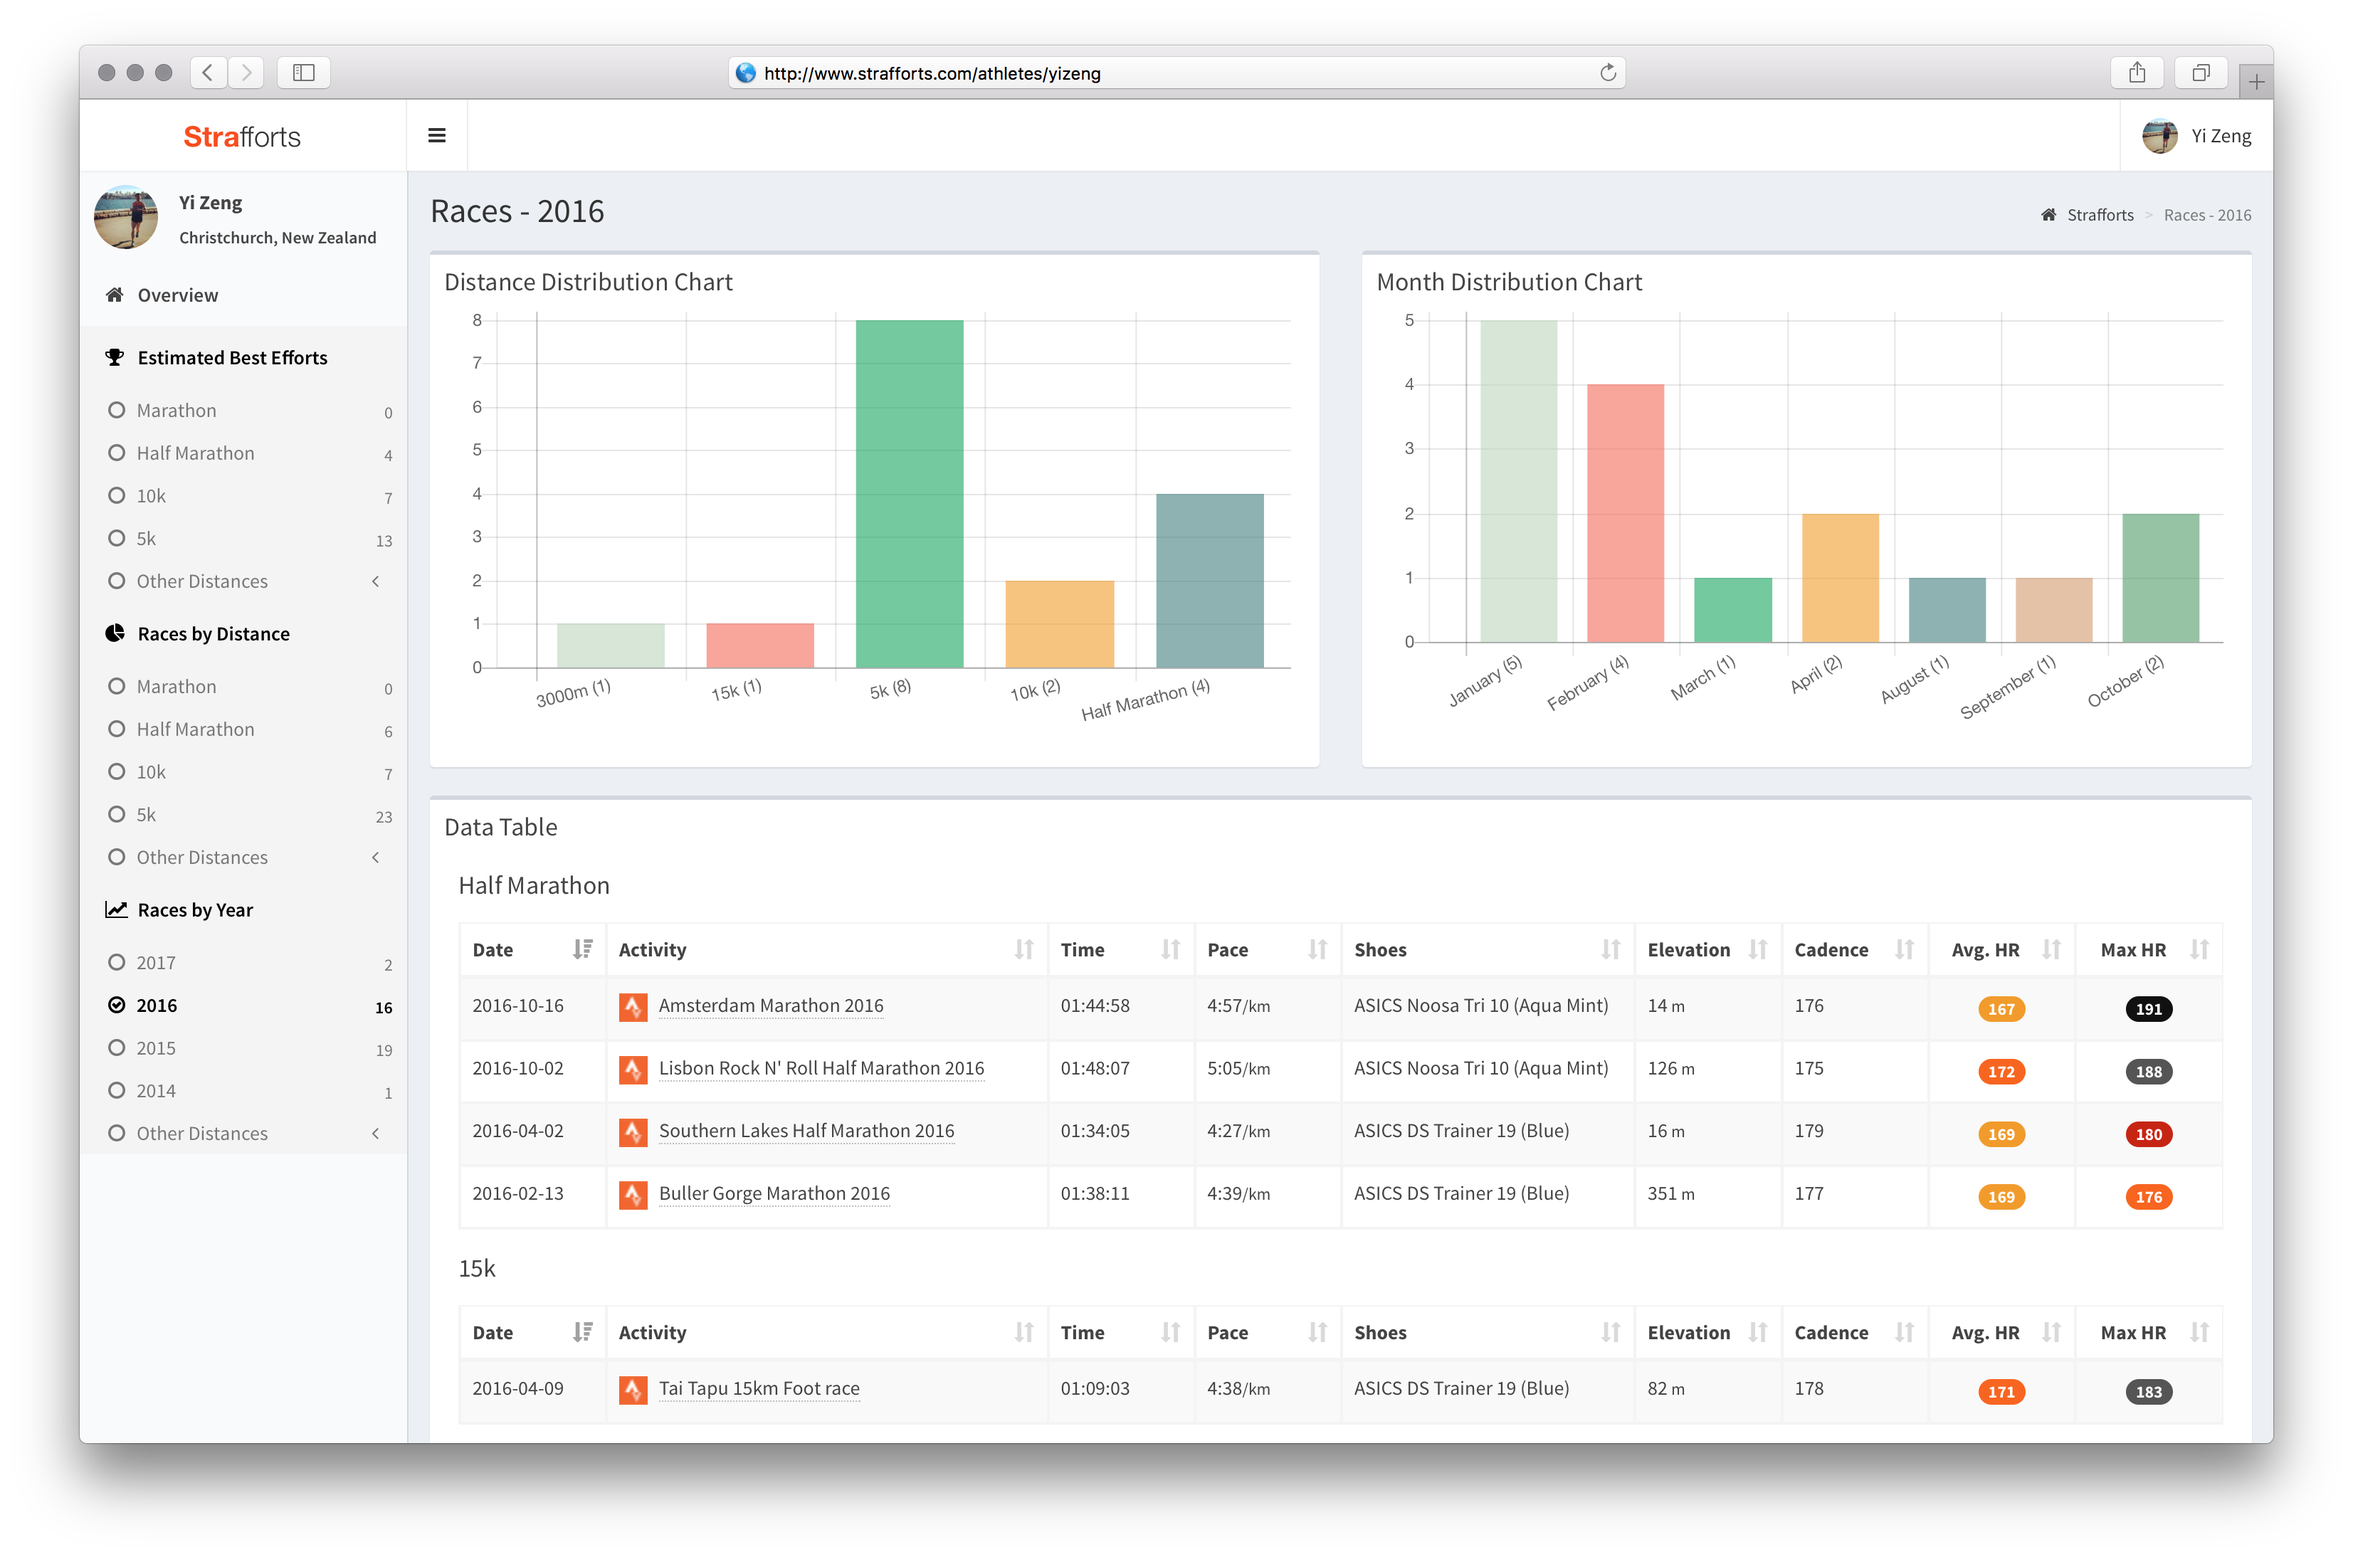
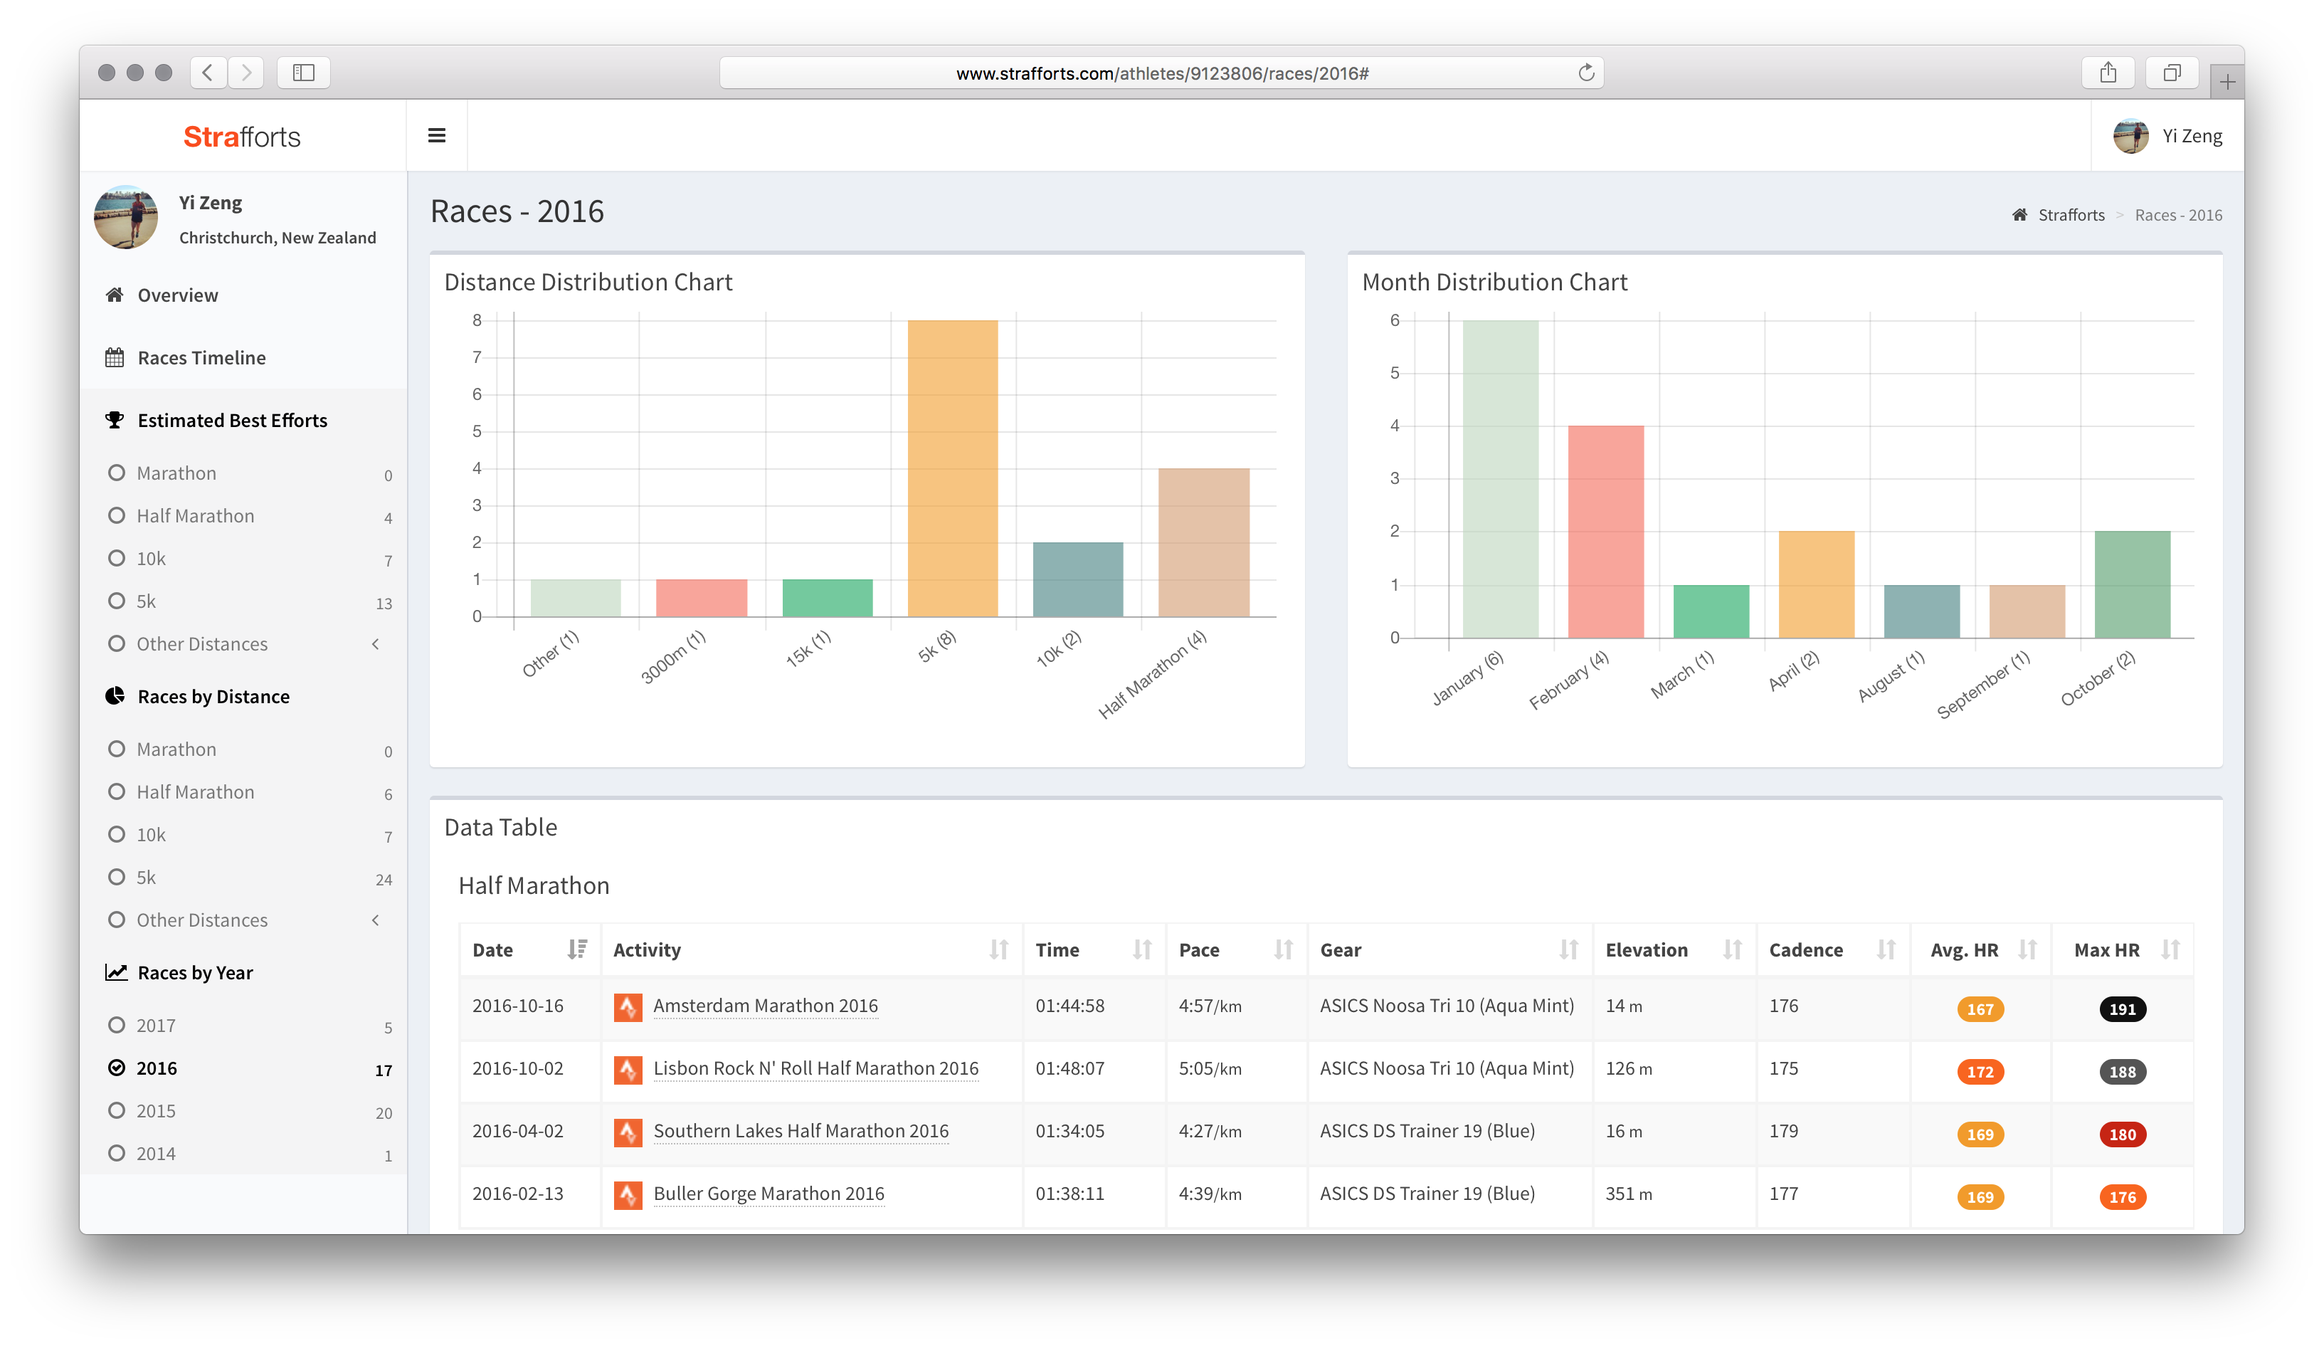
Update README.md for recent new features

diff --git a/README.md b/README.md
@@ -8,10 +8,10 @@
 [![Code Climate](https://img.shields.io/codeclimate/github/yizeng/strafforts.svg?style=flat-square)][Strafforts Code Climate]
 [![Gemnasium](https://img.shields.io/gemnasium/yizeng/strafforts.svg?style=flat-square)][Strafforts Gemnasium]
 
-### A Visualizer for Strava Estimated Best Efforts
+### A Visualizer for Strava Estimated Best Efforts and Races
 
 Strafforts is a web app that calls [Strava API][Strava API]
-to fetch athletes' [estimated best efforts][Strava Support] data
+to fetch athletes' [estimated best efforts][Strava Support Best Efforts] and [races][Use Run Type Tags]
 and visualize them in forms of data tables, line charts and pie charts,
 in such way athletes can perform some analysis like half marathon PB progression,
 fastest shoes used for a 10K race, how often 5K PB gets set, etc.
@@ -25,13 +25,14 @@ so that athletes can connect Strafforts with their Strava accounts and see visua
 http://www.strafforts.com
 
 ![Strafforts Homepage Screenshot](public/screenshots/strafforts-home.jpg)
+![Strafforts Races Timeline Screenshot](public/screenshots/strafforts-races-timeline-view.png)
 ![Strafforts Best Efforts View Screenshot](public/screenshots/strafforts-best-efforts-view.png)
 ![Strafforts Races View Screenshot](public/screenshots/strafforts-races-by-year-view.png)
 
 
 ### What are 'Estimated Best Efforts'?
 
-Quoting from [Strava Support][Strava Support]:
+Quoting from [Strava Support][Strava Support Best Efforts]:
 
 > Estimated Best Efforts are automatically calculated using your GPS-based running activity,
   and reflect your fastest times for benchmark distances such as 1 mile, 5km, 10km, and half marathon.
@@ -40,6 +41,17 @@ Quoting from [Strava Support][Strava Support]:
 
 ![Side by side Best Efforts][Side by side Best Efforts Image]
 ![Strava Best Efforts][Strava Best Efforts Image]
+
+### What are Strava races and how to create them?
+
+Quoting from [Strava Support][Use Run Type Tags]:
+
+> Strava offers four different sub-categories within the Running activity type to
+  allow for more detailed and focused analysis of your training.
+  Those four tags are Run, Race, Long Run, and Workout.
+
+![Strava Run Type Tag](public/screenshots/doc-tag-run-as-race.png)
+
 
 ## Acknowledgements
 
@@ -58,7 +70,7 @@ I will try my best to improve this and make it more useful for everyone.
 Got any questions? Check out the [Q&A page](docs/q-and-a.md) first to see if it's been asked before.
 If you have any feature idea, or are running into problems, please raise an issue on GitHub.
 If you want to make code changes, feel free to create PRs.
-Development guide can be found [here](docs/installation-and-development-guide.md) if needed.
+Development guide can be found [here](docs/development-guide.md) if needed.
 
 ## License
 Strafforts is a project developed and maintained by [Yi Zeng][yizeng.me], licensed under [MIT License](LICENSE).
@@ -69,10 +81,11 @@ Strafforts is a project developed and maintained by [Yi Zeng][yizeng.me], licens
 [Strafforts Code Climate]: https://codeclimate.com/github/yizeng/strafforts
 [Strafforts Gemnasium]: https://gemnasium.com/yizeng/strafforts
 [Strava API]: https://strava.github.io/api/
-[Strava Support]: https://support.strava.com/hc/en-us/articles/216917127-Estimated-Best-Efforts-for-Running
+[Strava Support Best Efforts]: https://support.strava.com/hc/en-us/articles/216917127-Estimated-Best-Efforts-for-Running
 [Side by side Best Efforts Image]: https://support.strava.com/attachments/token/B2NpmmMYGEVEzCJn7ZjoMFtsk/?name=Side+by+Side-+Best+Effort.png
 [Strava Best Efforts Image]: https://support.strava.com/attachments/token/UJw9NjMB5AZSqRm8sst8kUqUy/?name=activity+-+Best+Effort.png
 [strava-best-efforts]: https://github.com/yizeng/strava-best-efforts
 [Ruby on Rails]: http://rubyonrails.org/
 [Strafforts Issues]: https://github.com/yizeng/strafforts/issues
 [yizeng.me]: http://yizeng.me
+[Use Run Type Tags]: https://support.strava.com/hc/en-us/articles/216919557-Using-Strava-Run-Type-Tags-to-analyze-your-Runs
